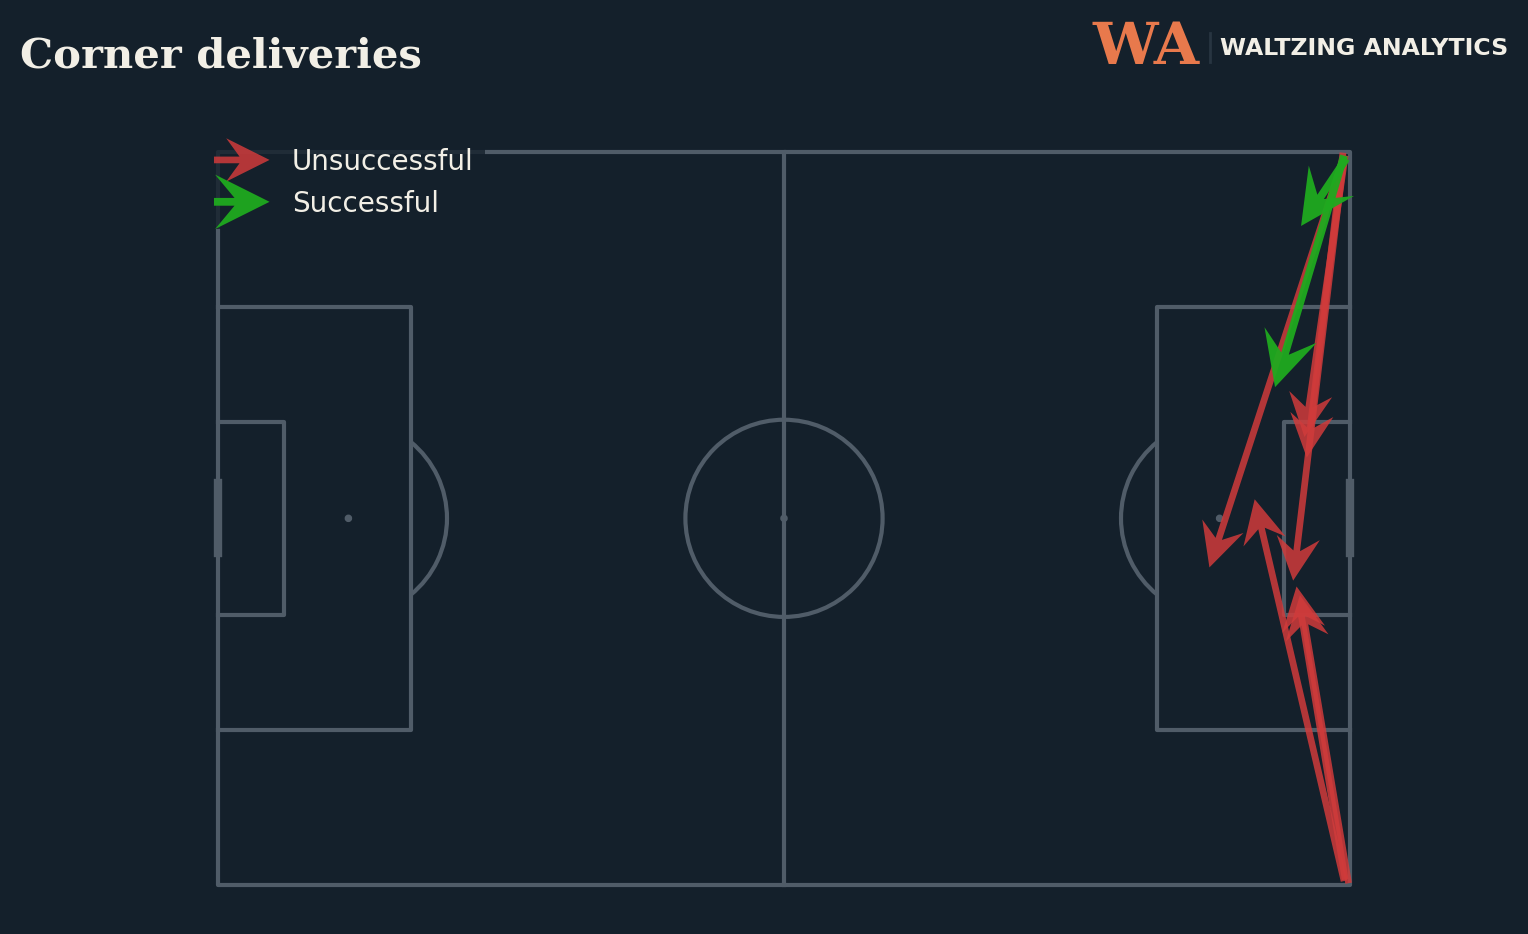
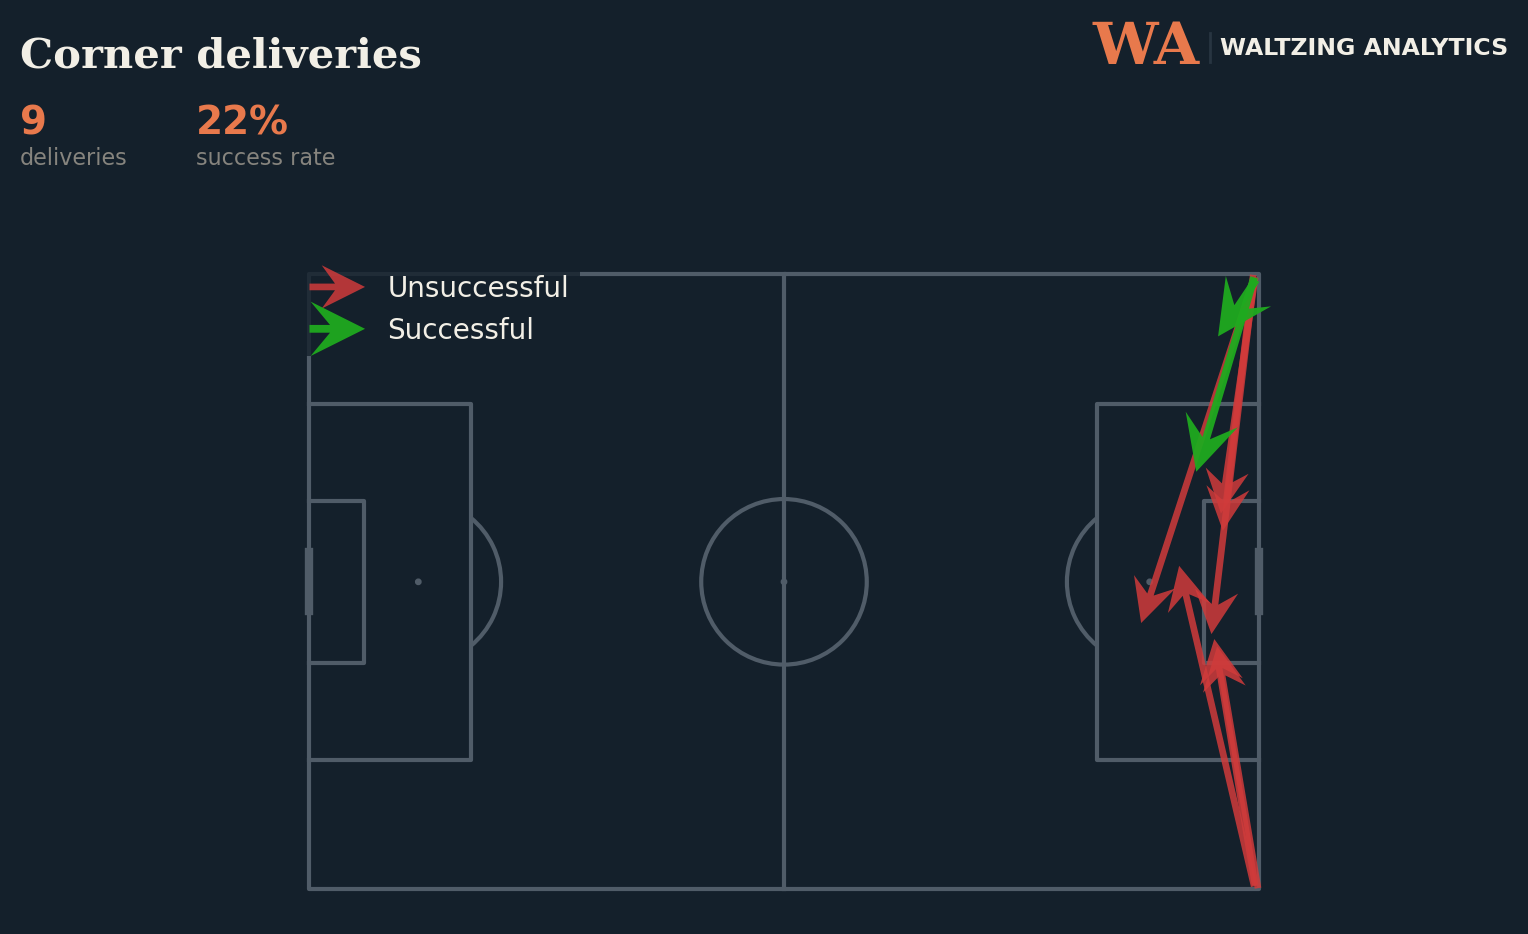
Give charts a headline stat strip and a density option, not just raw plots
The 0.19.2 quality pass fixed rendering bugs but left every chart plotting
data with no stated takeaway. Adds a shared, reusable stat-strip component
(Palette.draw_stat_strip) and wires auto-computed headline numbers into
plot_delivery_map, plot_zone_heatmap, plot_corner_sonar, and
plot_dashboard -- every value computed from the data actually being
plotted, never passed in, so it can't drift out of sync with the chart.

Also adds density=False on plot_delivery_map (a KDE shade of where
deliveries land, via mplsoccer's own kdeplot/seaborn -- no new
dependency). Off by default: a smooth density surface overstates what a
single match's handful of deliveries can support.

Regenerated the hero image and full gallery, verified every enhanced
chart type by rendering and looking at it, not just checking it builds.
Bump to 0.20.0 (default-behavior change across four public functions).

diff --git a/src/wa_setpieces/viz/plots.py b/src/wa_setpieces/viz/plots.py
@@ -38,6 +38,18 @@ whichever figure canvas it's given; this module additionally picks a
 taller default canvas for ``vertical=True`` so there's less unused
 horizontal space than a landscape canvas would leave around a portrait
 pitch.
+
+Several functions also take ``show_stats: bool = True`` -- an
+auto-computed headline stat strip (count, success rate, ...) under the
+subtitle, so a chart states its own takeaway instead of leaving the
+reader to work it out from the plot. These are computed from the data
+actually being plotted, never passed in, so they can't drift out of
+sync with what's drawn. :func:`plot_delivery_map` also takes
+``density: bool = False`` -- a kernel-density shade of where deliveries
+land underneath the arrows (:meth:`mplsoccer.Pitch.kdeplot`, via
+seaborn, already a dependency of mplsoccer itself); off by default
+since a smooth density surface overstates what a single match's handful
+of deliveries can actually support -- turn it on for a season's worth.
 """
 
 from __future__ import annotations
@@ -115,19 +127,23 @@ def _finish_figure(
     pal: theme.Palette, fig, ax,
     title: str | None, subtitle: str | None, footer: str | None,
     eyebrow: str | None = None, author: str | None = None,
+    stats: list[tuple[str, str]] | None = None,
 ) -> None:
     """Wrap up a plot: the full WA card header/footer (eyebrow, serif
-    title, subtitle, WA lockup, footer) if this function created and owns
-    the whole figure -- or the older, simpler axes-level title/footer if
-    the caller passed in their own ``ax``, since then we don't know the
-    rest of that figure's layout and can't safely reserve margin for a
-    header band without possibly colliding with whatever else is on it.
+    title, subtitle, headline stat strip, WA lockup, footer) if this
+    function created and owns the whole figure -- or the older, simpler
+    axes-level title/footer if the caller passed in their own ``ax``,
+    since then we don't know the rest of that figure's layout and can't
+    safely reserve margin for a header band without possibly colliding
+    with whatever else is on it. ``stats`` (a chart's own auto-computed
+    headline numbers) is silently dropped in that fallback case for the
+    same reason.
     """
     if fig is not None:
         fig.patch.set_facecolor(pal.surface)
         fig.set_layout_engine(None)  # see Palette.draw_header's docstring
         _reserve_ytick_margin(fig, ax)
-        pal.draw_header(fig, eyebrow=eyebrow, title=title, subtitle=subtitle, author=author)
+        pal.draw_header(fig, eyebrow=eyebrow, title=title, subtitle=subtitle, author=author, stats=stats)
         pal.draw_footer(fig, source=footer, author=author)
     else:
         pal.style_axis_text(ax, title, subtitle)
@@ -144,6 +160,8 @@ def plot_delivery_map(
     author: str | None = None,
     dark: bool = True,
     vertical: bool = False,
+    density: bool = False,
+    show_stats: bool = True,
     ax=None,
     pitch_kwargs: dict | None = None,
 ):
@@ -159,6 +177,18 @@ def plot_delivery_map(
         vertical: draw on a vertical (goal-at-top) pitch via
             :class:`mplsoccer.VerticalPitch` instead of the default
             horizontal (goal-at-right) :class:`mplsoccer.Pitch`.
+        density: shade a kernel-density estimate of where deliveries land
+            underneath the arrows (:meth:`mplsoccer.Pitch.kdeplot`, which
+            needs ``seaborn`` -- already pulled in by mplsoccer itself).
+            Off by default: a KDE surface implies a smooth, continuous
+            pattern that a handful of deliveries from one match can't
+            actually support -- turn this on for a season's worth of
+            deliveries, where the shape means something.
+        show_stats: show an auto-computed headline stat strip (delivery
+            count and success rate) under the subtitle -- the chart
+            states its own takeaway instead of leaving the reader to
+            count arrows and colors by eye. Computed from ``deliveries``
+            itself, not passed in.
         subtitle: optional muted line under the title (e.g. a date/venue).
         eyebrow: optional small category label above the title (e.g.
             ``"Corner"``), WA-house-style.
@@ -176,6 +206,13 @@ def plot_delivery_map(
     success = deliveries[deliveries["outcome"] == 1]
     fail = deliveries[deliveries["outcome"] != 1]
 
+    if density and len(deliveries.dropna(subset=["end_x", "end_y"])) >= 5:
+        valid_ends = deliveries.dropna(subset=["end_x", "end_y"])
+        pitch.kdeplot(
+            valid_ends["end_x"], valid_ends["end_y"], ax=ax, cmap=pal.sequential_blue_cmap(),
+            fill=True, levels=8, thresh=0.05, alpha=0.55, zorder=1,
+        )
+
     if not fail.empty:
         pitch.arrows(
             fail["x"], fail["y"], fail["end_x"], fail["end_y"],
@@ -190,7 +227,11 @@ def plot_delivery_map(
         )
 
     pal.style_legend(ax)
-    _finish_figure(pal, fig, ax, title, subtitle, footer, eyebrow, author)
+    stats = None
+    if show_stats and len(deliveries):
+        success_rate = len(success) / len(deliveries)
+        stats = [(str(len(deliveries)), "deliveries"), (f"{success_rate * 100:.0f}%", "success rate")]
+    _finish_figure(pal, fig, ax, title, subtitle, footer, eyebrow, author, stats=stats)
     return fig, ax
 
 
@@ -207,6 +248,7 @@ def plot_zone_heatmap(
     author: str | None = None,
     dark: bool = True,
     vertical: bool = False,
+    show_stats: bool = True,
     cmap=None,
     ax=None,
     pitch_kwargs: dict | None = None,
@@ -218,7 +260,10 @@ def plot_zone_heatmap(
     set-piece type happens most often. Defaults to the single-hue
     sequential blue ramp (counts are a magnitude, not a category).
     ``vertical=True`` draws on a goal-at-top :class:`mplsoccer.VerticalPitch`
-    instead of the default horizontal one.
+    instead of the default horizontal one. ``show_stats=True`` (default)
+    adds an auto-computed headline stat strip -- the total count and what
+    share of it landed in the single busiest zone, e.g. "62% in one zone"
+    as a direct, immediate answer to "how concentrated is this."
     """
     import matplotlib.patheffects as path_effects
 
@@ -230,10 +275,10 @@ def plot_zone_heatmap(
     y = pd.to_numeric(events[y_col], errors="coerce")
     valid = x.notna() & y.notna()
 
-    stats = pitch.bin_statistic(x[valid], y[valid], statistic="count", bins=(x_bins, y_bins))
-    pitch.heatmap(stats, ax=ax, cmap=cmap, edgecolor=pal.surface)
+    binned = pitch.bin_statistic(x[valid], y[valid], statistic="count", bins=(x_bins, y_bins))
+    pitch.heatmap(binned, ax=ax, cmap=cmap, edgecolor=pal.surface)
     labels = pitch.label_heatmap(
-        stats, ax=ax, str_format="{:.0f}", color=pal.ink_primary, fontsize=11,
+        binned, ax=ax, str_format="{:.0f}", color=pal.ink_primary, fontsize=11,
         ha="center", va="center",
     )
     stroke_color = "black" if dark else "white"
@@ -241,7 +286,12 @@ def plot_zone_heatmap(
         label.set_path_effects(
             [path_effects.Stroke(linewidth=2.5, foreground=stroke_color), path_effects.Normal()]
         )
-    _finish_figure(pal, fig, ax, title, subtitle, footer, eyebrow, author)
+    header_stats = None
+    total = int(binned["statistic"].sum())
+    if show_stats and total:
+        peak_share = binned["statistic"].max() / total
+        header_stats = [(str(total), "total"), (f"{peak_share * 100:.0f}%", "in busiest zone")]
+    _finish_figure(pal, fig, ax, title, subtitle, footer, eyebrow, author, stats=header_stats)
     return fig, ax
 
 
@@ -607,6 +657,7 @@ def plot_corner_sonar(
     footer: str | None = None,
     author: str | None = None,
     dark: bool = True,
+    show_stats: bool = True,
     ax=None,
 ):
     """Polar "sonar" plot of corner (or free-kick) delivery angle and distance.
@@ -614,7 +665,9 @@ def plot_corner_sonar(
     Each delivery is one point: angle is the direction from the restart spot
     to where the ball ended up, radius is how far it travelled. Colored by
     outcome (status, not team) exactly like :func:`plot_delivery_map`, so
-    the two read consistently together.
+    the two read consistently together. ``show_stats=True`` (default) adds
+    an auto-computed count and success-rate stat strip, same as
+    :func:`plot_delivery_map`.
 
     Requires a polar ``ax`` if you pass one in
     (``plt.subplots(subplot_kw={"projection": "polar"})``).
@@ -640,7 +693,11 @@ def plot_corner_sonar(
     ax.tick_params(colors=pal.ink_secondary)
     ax.spines["polar"].set_color(pal.gridline)
     ax.grid(color=pal.gridline)
-    _finish_figure(pal, fig, ax, title, subtitle, footer, eyebrow, author)
+    header_stats = None
+    if show_stats and len(d):
+        success_rate = (d["outcome"] == 1).mean()
+        header_stats = [(str(len(d)), "deliveries"), (f"{success_rate * 100:.0f}%", "success rate")]
+    _finish_figure(pal, fig, ax, title, subtitle, footer, eyebrow, author, stats=header_stats)
     return fig, ax
 
 
@@ -782,9 +839,21 @@ def plot_dashboard(
         title="Success rate by set-piece type", dark=dark, ax=ax_rate,
     )
 
+    header_stats = None
+    team_row = summary[
+        (summary["contestantId"] == team_id) & (summary["set_piece_type"] == set_piece_type)
+    ]
+    if not team_row.empty:
+        row = team_row.iloc[0]
+        header_stats = [
+            (str(int(row["attempts"])), "attempts"),
+            (f"{row['success_rate'] * 100:.0f}%", "success rate"),
+            (str(int(row["goals"])), "goals"),
+        ]
+
     pal.draw_header(
         fig, eyebrow=eyebrow, title=title or f"{label} — set-piece report",
-        subtitle=subtitle, author=author,
+        subtitle=subtitle, author=author, stats=header_stats,
     )
     pal.draw_footer(fig, source=footer, author=author)
     return fig

diff --git a/src/wa_setpieces/viz/theme.py b/src/wa_setpieces/viz/theme.py
@@ -311,9 +311,57 @@ class Palette:
         mark_left_px = mark.get_window_extent(renderer=renderer).x0
         return mark_left_px / fig.bbox.width
 
+    def draw_stat_strip(
+        self, fig, stats: list[tuple[str, str]], x_in: float, y_in: float,
+        gap_in: float = 0.34, value_fontsize: float = 14,
+    ) -> float:
+        """A left-to-right row of bold-value/muted-label KPI tiles -- e.g.
+        ``[("64%", "success rate"), ("14", "attempts"), ("+0.31", "xT added")]``
+        -- the "headline stat" callout the WA report references use (a
+        chart that states its own takeaway, not just plots the data and
+        leaves the reader to compute it). Each tile's width is measured
+        (not guessed) so tiles never overlap regardless of how long a
+        value or label happens to be.
+
+        Returns:
+            The ``y_in`` position just below the strip, in inches from
+            the figure top, so a caller can stack more header content
+            beneath it.
+        """
+        fig_w, fig_h = fig.get_size_inches()
+        fig.canvas.draw()
+        renderer = fig.canvas.get_renderer()
+
+        x_px = x_in * fig.dpi
+        max_label_h_px = 0.0
+        for value, label in stats:
+            value_text = fig.text(
+                x_px / fig.bbox.width, 1 - y_in / fig_h, value, transform=fig.transFigure,
+                ha="left", va="top", color=self.accent, fontsize=value_fontsize, fontweight="bold",
+            )
+            fig.canvas.draw()
+            renderer = fig.canvas.get_renderer()
+            value_bbox = value_text.get_window_extent(renderer=renderer)
+
+            label_y_in = y_in + (value_bbox.height / fig.dpi) + 0.02
+            label_text = fig.text(
+                x_px / fig.bbox.width, 1 - label_y_in / fig_h, label, transform=fig.transFigure,
+                ha="left", va="top", color=self.ink_muted, fontsize=8,
+            )
+            fig.canvas.draw()
+            renderer = fig.canvas.get_renderer()
+            label_bbox = label_text.get_window_extent(renderer=renderer)
+            max_label_h_px = max(max_label_h_px, label_bbox.height)
+
+            tile_width_px = max(value_bbox.width, label_bbox.width)
+            x_px += tile_width_px + gap_in * fig.dpi
+
+        return y_in + (value_bbox.height + max_label_h_px) / fig.dpi + 0.05 + 0.22
+
     def draw_header(
         self, fig, eyebrow: str | None = None, title: str | None = None,
         subtitle: str | None = None, author: str | None = None,
+        stats: list[tuple[str, str]] | None = None,
         title_fontsize: float = 15, left_x_in: float = 0.28,
     ) -> None:
         """The full header band: eyebrow + serif title + subtitle at the
@@ -370,6 +418,8 @@ class Palette:
                 ha="left", va="top", color=self.ink_secondary, fontsize=10,
             )
             y_in += 0.26
+        if stats:
+            y_in = self.draw_stat_strip(fig, stats, x_in=left_x_in, y_in=y_in + 0.06)
         fig.subplots_adjust(top=max(0.5, 1 - (y_in + 0.15) / fig_h))
 
     def draw_footer(self, fig, source: str | None = None, author: str | None = None, fontsize: float = 8) -> None:

diff --git a/docs/source/changelog.rst b/docs/source/changelog.rst
@@ -1,6 +1,42 @@
 Changelog
 =========
 
+0.20.0
+------
+
+The gallery looked polished but shallow after 0.19.2's quality pass --
+every chart plotted the data and left the reader to work out the
+takeaway. This adds the layer that was actually missing: charts that
+state their own headline number, and one chart (the delivery map) that
+can show the *shape* of a pattern, not just individual deliveries.
+
+- **Added**: an auto-computed headline stat strip -- bold value, muted
+  label, e.g. "9 deliveries / 22% success rate" -- under the subtitle on
+  :func:`~wa_setpieces.viz.plot_delivery_map`,
+  :func:`~wa_setpieces.viz.plot_zone_heatmap` (count and the busiest
+  zone's share of it), :func:`~wa_setpieces.viz.plot_corner_sonar`, and
+  :func:`~wa_setpieces.viz.plot_dashboard` (attempts/success rate/goals
+  for the report's own team). New ``show_stats: bool = True`` parameter
+  on each -- on by default; every value is computed straight from the
+  data being plotted, never passed in, so it can't drift out of sync
+  with the chart. New :meth:`~wa_setpieces.viz.theme.Palette.draw_stat_strip`
+  is the shared, reusable building block.
+- **Added**: ``density: bool = False`` on
+  :func:`~wa_setpieces.viz.plot_delivery_map` -- a kernel-density shade
+  of where deliveries land, underneath the arrows
+  (:meth:`mplsoccer.Pitch.kdeplot`, via seaborn -- already a transitive
+  dependency of mplsoccer, no new dependency added). Off by default: a
+  smooth density surface implies a continuous pattern a single match's
+  handful of deliveries can't actually support -- meaningful once turned
+  on for a season's worth.
+- Hero image and all gallery plots regenerated; a new example
+  (``plot_21_vertical_pitch.py`` from 0.19.3, already covering
+  orientation) sits alongside the existing set -- no new gallery script
+  needed for this change, since the enhancement applies to functions
+  already demonstrated throughout the gallery.
+
+313 tests passing (unchanged), docs build clean.
+
 0.19.3
 ------
 
